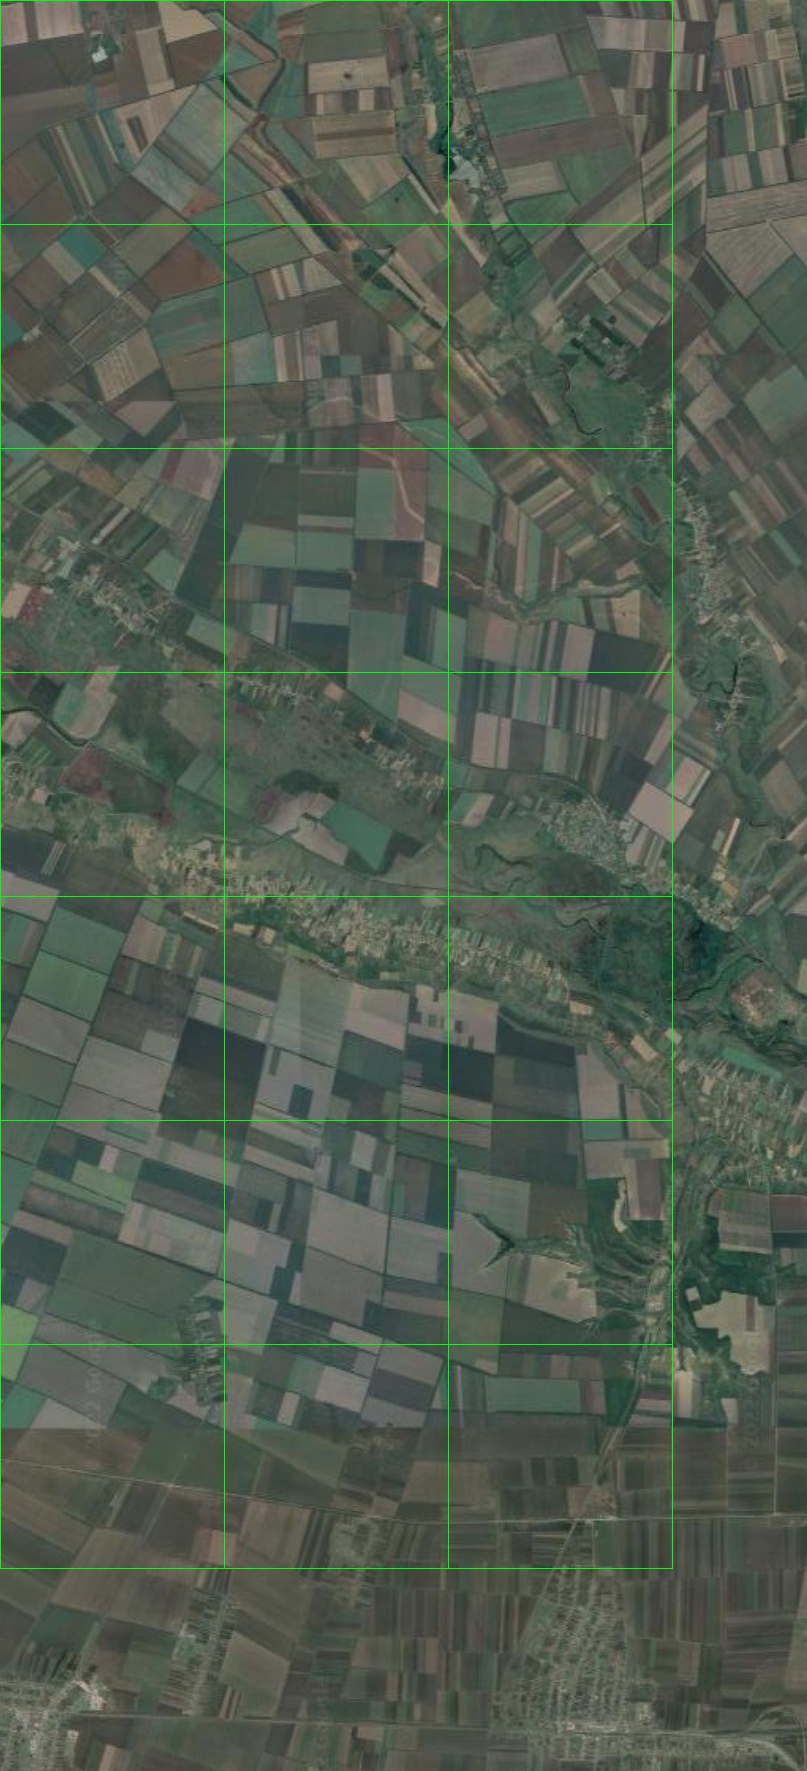
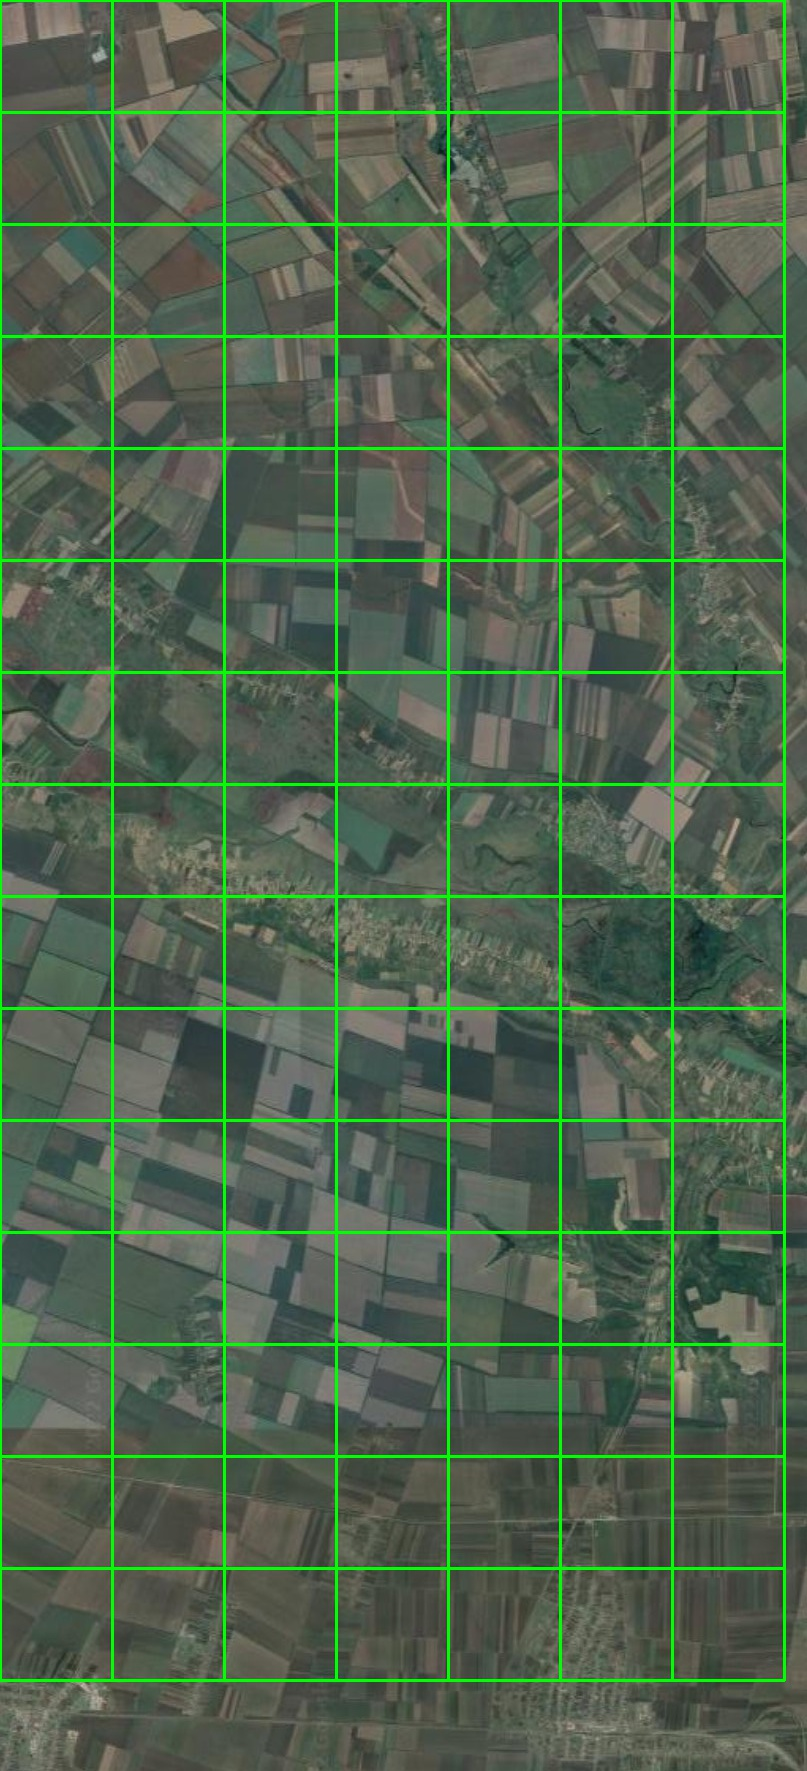
modified:   Melitopol_p.jpg 	modified:   img_to_vec.py 	new file:   test_colab.py 	new file:   test_rot.py 	new file:   test_rot2.py 	modified:   tile.py

diff --git a/test_colab.py b/test_colab.py
@@ -1,0 +1,154 @@
+import cv2
+import numpy as np
+import os
+from img_to_vec import Img2Vec
+from sklearn.metrics.pairwise import cosine_similarity
+from PIL import Image
+import random
+
+#from google.colab.patches import cv2_imshow
+
+
+def rotate(points, angle):
+    #https://stackoverflow.com/questions/69542049/how-to-rotate-rectangle-shape-cv2-python
+    ANGLE = np.deg2rad(angle)
+    c_x, c_y = np.mean(points, axis=0)
+    return np.array(
+        [
+            [
+                c_x + np.cos(ANGLE) * (px - c_x) - np.sin(ANGLE) * (py - c_x),
+                c_y + np.sin(ANGLE) * (px - c_y) + np.cos(ANGLE) * (py - c_y)
+            ]
+            for px, py in points
+        ]
+    ).astype(int)
+
+# Задаємо назву файлу, папку для тайлів та розмір тайлів
+img_name = "Melitopol"
+tile_folder = 'tiles'
+# step size
+mod_size = 224
+N = 112 # Y
+M = N # X
+mod_scale = mod_size/N
+from PIL import Image
+# Створюємо нову чи очищаємо існуючу директорію для тайлів
+if not os.path.exists(tile_folder):
+   # Create a new directory because it does not exist
+   os.makedirs(tile_folder)
+   print("The new directory is created!")
+else:
+  print("The directory is exist!")
+  if os.listdir(tile_folder):
+    print("The directory is not empty!")
+    for f in os.listdir(tile_folder):
+      os.remove(os.path.join(tile_folder, f))
+    print("The new directory is empty now!")
+
+# Розбиваємо картинку на тайли
+img =  cv2.imread(img_name+".jpg")
+image_copy = img.copy() 
+imgheight=img.shape[0]
+imgwidth=img.shape[1]
+y_cols = int(imgheight/N)
+x_cols = int(imgwidth/N)
+
+img2vec = Img2Vec(cuda=True, model='efficientnet_b2', layer='default', layer_output_size=1408)
+
+# For each test image, we store the filename and vector as key, value in a dictionary
+pics = []
+counter = 0
+counter100 = 100
+x1 = 0
+y1 = 0
+y2 = -1
+for y in range(0, imgheight, N):
+    y2 += 1
+    x2 = -1
+    for x in range(0, imgwidth, N):
+        if (imgheight - y) < N or (imgwidth - x) < M: break  
+        x2 += 1
+        if counter100 == 0:
+            counter100 = 100
+            print(counter)
+        counter += 1        
+        counter100 -= 1           
+        y1 = y + N
+        x1 = x + M 
+        # check whether the patch width or height exceeds the image width or height
+        if x1 >= imgwidth: x1 = imgwidth - 1
+        if y1 >= imgheight: y1 = imgheight - 1
+        #Crop into patches of size MxM
+        tile = image_copy[y:y+N, x:x+M]
+        #Save each patch into file directory
+        filename = 't_'+str(x2)+'_'+str(y2)+'_.jpg'
+        #cv2.imwrite(os.path.join(tile_folder, filename), tile)
+        cv2.rectangle(img, (x, y), (x1, y1), (0, 255, 0), 2)
+        #img = Image.open(os.path.join(tile_folder, filename)).convert('RGB')
+        tile = cv2.resize(tile,(mod_size, mod_size))
+        tile = Image.fromarray(tile).convert('RGB')
+        vec = img2vec.get_vec(tile)
+        pics.append([filename, vec])
+cv2.imwrite(img_name+"_p.jpg",img)
+print(str(counter), ' images ready!', len(pics))
+
+
+
+
+#__xy = rotate(__xy, angle)
+def test_random():
+    #Обираємо довільну картинку на карті
+    y_r = int(random.random()*imgheight*0.6)
+    x_r = int(random.random()*imgwidth*0.6)
+    __xy = np.array([[x_r,y_r],[x_r+M,y_r],[x_r+M,y_r+N],[x_r,y_r+N]])
+    #__xy = np.array([(x_r, y_r), (x_r+M, y_r+N)])
+    angle = int(360*random.random())
+    __xy2 = rotate(__xy, angle)
+    __xyA = np.array([[x_r+int(M/2),y_r+int(N/3)],[x_r+int(M/2),y_r+int(2*N/3)]])
+    __xyA2 = rotate(__xyA, angle)
+    
+    img_copy = img.copy()
+
+    tile = img[y_r:y_r+N, x_r:x_r+M]
+    tile = cv2.cvtColor(tile, cv2.COLOR_BGR2RGB)
+    tile = Image.fromarray(tile).convert('RGB')
+    cv2.rectangle(img_copy, (__xy[0][0], __xy[0][1]), (__xy[1][0], __xy[1][1]), (255, 255, 255), 2)
+
+    vec = img2vec.get_vec(tile)
+    sims = {}
+    for i in range(len(pics)):
+        key = pics[i][0]
+        sims[key] = cosine_similarity(vec.reshape((1, -1)), pics[i][1].reshape((1, -1)))[0][0]
+        d_view = [(v, k) for k, v in sims.items()]
+    d_view.sort(reverse=True)
+    color = [255, 0, 0]
+    for i in range(4):
+      print("try:", i, d_view[i][0])
+      _xy = d_view[i][1].split('_')
+      x = int(_xy[1])*N
+      y = int(_xy[2])*M
+      cv2.rectangle(img_copy, (x, y), (x+N, y+M), color, 2)
+      cv2.putText(img_copy, str(int(100*d_view[i][0])), (x,y), cv2.FONT_HERSHEY_SIMPLEX, 1, (0, 0, 255), 2, cv2.LINE_AA)
+
+      color[1] += 70
+    scale = 0.4
+    cv2.polylines(img_copy, [__xy2], True, (255, 255, 255), 2)
+    cv2.arrowedLine(img_copy, __xyA2[0], __xyA2[1], (0,0,255), 2)
+
+    return cv2.resize(img_copy,(int(imgwidth*scale),int(imgheight*scale)))
+    # cv2_imshow(img_copy_s)
+
+ 
+
+
+img1 = test_random()
+
+img2 = test_random()
+img3 = test_random()
+img4 = test_random()
+Hori = np.concatenate((img1, img2, img3, img4), axis=1)
+cv2.imshow('sample', Hori)
+cv2.moveWindow('sample', 30, 30)
+
+cv2.waitKey(0) # waits until a key is pressed
+cv2.destroyAllWindows() # destroys the window showing image

diff --git a/test_rot2.py b/test_rot2.py
@@ -1,0 +1,94 @@
+import sys
+import cv2
+import numpy as np
+import random
+import math
+
+def rotate(points, angle):
+    #https://stackoverflow.com/questions/69542049/how-to-rotate-rectangle-shape-cv2-python
+    ANGLE = np.deg2rad(angle)
+    c_x, c_y = np.mean(points, axis=0)
+    return np.array(
+        [
+            [
+                c_x + np.cos(ANGLE) * (px - c_x) - np.sin(ANGLE) * (py - c_x),
+                c_y + np.sin(ANGLE) * (px - c_y) + np.cos(ANGLE) * (py - c_y)
+            ]
+            for px, py in points
+        ]
+    ).astype(int)
+
+N = 112 # y
+M = N
+img1 =  cv2.imread("Melitopol.jpg")
+imgheight=img1.shape[0]
+imgwidth=img1.shape[1]
+
+def rand_rect():
+    y_r = int(random.random()*imgheight*0.7)
+    x_r = int(random.random()*imgwidth*0.7)
+    angle = int(360*random.random())
+    __xy = np.array([[x_r,y_r],[x_r+M,y_r],[x_r+M,y_r+N],[x_r,y_r+N]])    
+    __xy2 = rotate(__xy, angle)
+    return __xy2, x_r, y_r, angle
+
+def rotateImage(image, angle):
+    row,col = image.shape[:2]
+    center=tuple(np.array([row,col])/2.0)
+    #print("rot", row,col,"\n",np.array([row,col])/2.0)
+    rot_mat = cv2.getRotationMatrix2D(center,angle+180,1.0)
+    new_image = cv2.warpAffine(image, rot_mat, (col,row))
+    return new_image
+
+__xy2, x_r, y_r, angle = rand_rect()
+__xy_test = np.greater(__xy2, 0)
+__x_test = np.less(__xy2[:,0], imgwidth)
+__y_test = np.less(__xy2[:,1], imgheight)
+
+count = 100
+while (not np.all(__xy_test)) or (not np.all(__x_test)) or (not np.all(__y_test)):
+    __xy2, x_r, y_r, angle = rand_rect()
+    __xy_test = np.greater(__xy2, 0)
+    __x_test = np.less(__xy2[:,0], imgwidth)
+    __y_test = np.less(__xy2[:,1], imgheight)    
+    count -= 1
+    if count == 0: 
+        print("Error!!! Count=0")
+        exit()
+print("count",count, __xy2)
+#print("__xy", imgwidth, imgheight, "\n",__xy2)
+#center_0 = [x_r+int(M/2),y_r+int(N/2)]
+#cv2.circle(img1, center_0, radius=5, color=(0, 0, 255), thickness=-1)
+
+
+__xyA = np.array([[x_r+int(M/2),y_r+int(N/3)],[x_r+int(M/2),y_r+int(2*N/3)]])
+__xyA2 = rotate(__xyA, angle)
+
+
+print('angle', angle)
+
+cv2.polylines(img1, [__xy2], True, (255, 255, 255), 2)
+cv2.arrowedLine(img1, __xyA2[0], __xyA2[1], (0,0,255), 2)
+
+img2 = np.zeros((M,N,3), np.uint8)
+
+rect = cv2.boundingRect(__xy2)
+x,y,w,h = rect
+img2_0 = img1[y:y+h, x:x+w].copy()
+img2_r = rotateImage(img2_0, angle)
+#print("shape", img2_r[:2].shape)
+
+center = (np.array(img2_r.shape[:2])/2).astype(int)
+print("center", center)
+x_min = max(center[0]-int(M/2), 0)
+y_min = max(center[1]-int(N/2), 0)
+img2 = img2_r[y_min:y_min+N, x_min:x_min+M]
+img2 = cv2.resize(img2,(int(imgwidth/2),int(imgheight/2)))
+img1 = cv2.resize(img1,(int(imgwidth/2),int(imgheight/2)))
+Hori = np.concatenate((img1, img2), axis=1)
+
+cv2.imshow('sample', Hori)
+cv2.moveWindow('sample', 30, 30)
+
+cv2.waitKey(0) # waits until a key is pressed
+cv2.destroyAllWindows() # destroys the window showing image

diff --git a/test_rot.py b/test_rot.py
@@ -1,0 +1,56 @@
+import cv2
+import numpy as np
+
+def rotate(points, angle):
+    #https://stackoverflow.com/questions/69542049/how-to-rotate-rectangle-shape-cv2-python
+    ANGLE = np.deg2rad(angle)
+    c_x, c_y = np.mean(points, axis=0)
+    return np.array(
+        [
+            [
+                c_x + np.cos(ANGLE) * (px - c_x) - np.sin(ANGLE) * (py - c_x),
+                c_y + np.sin(ANGLE) * (px - c_y) + np.cos(ANGLE) * (py - c_y)
+            ]
+            for px, py in points
+        ]
+    ).astype(int)
+height = 300
+width = 300
+x_r = 100
+y_r = 50
+N = 100 # y
+M = N
+__xy = np.array([[x_r,y_r],[x_r+M,y_r],[x_r+M,y_r+N],[x_r,y_r+N]])
+
+img1 = np.zeros((height,width,3), np.uint8)
+#print(__xy)
+cv2.polylines(img1, [__xy], True, (255, 255, 255), 2)
+__xyA = np.array([[x_r+int(M/2),y_r+int(N/3)],[x_r+int(M/2),y_r+int(2*N/3)]])
+cv2.arrowedLine(img1, __xyA[0], __xyA[1], (0,0,255), 2)
+
+img2 = np.zeros((height,width,3), np.uint8)
+__xy2 = rotate(__xy, 30)
+cv2.polylines(img2, [__xy2], True, (255, 255, 255), 2)
+__xyA2 = rotate(__xyA, 30)
+cv2.arrowedLine(img2, __xyA2[0], __xyA2[1], (0,0,255), 2)
+
+img3 = np.zeros((height,width,3), np.uint8)
+__xy3 = rotate(__xy, 60)
+cv2.polylines(img3, [__xy3], True, (255, 255, 255), 2)
+__xyA3 = rotate(__xyA, 60)
+cv2.arrowedLine(img3, __xyA3[0], __xyA3[1], (0,0,255), 2)
+
+angle4 = 360
+img4 = np.zeros((height,width,3), np.uint8)
+__xy4 = rotate(__xy, angle4)
+cv2.polylines(img4, [__xy4], True, (255, 255, 255), 2)
+__xyA4 = rotate(__xyA, angle4)
+cv2.arrowedLine(img4, __xyA4[0], __xyA4[1], (0,0,255), 2)
+
+Hori = np.concatenate((img1, img2, img3, img4), axis=1)
+
+cv2.imshow('sample', Hori)
+cv2.moveWindow('sample', 30, 30)
+
+cv2.waitKey(0) # waits until a key is pressed
+cv2.destroyAllWindows() # destroys the window showing image
